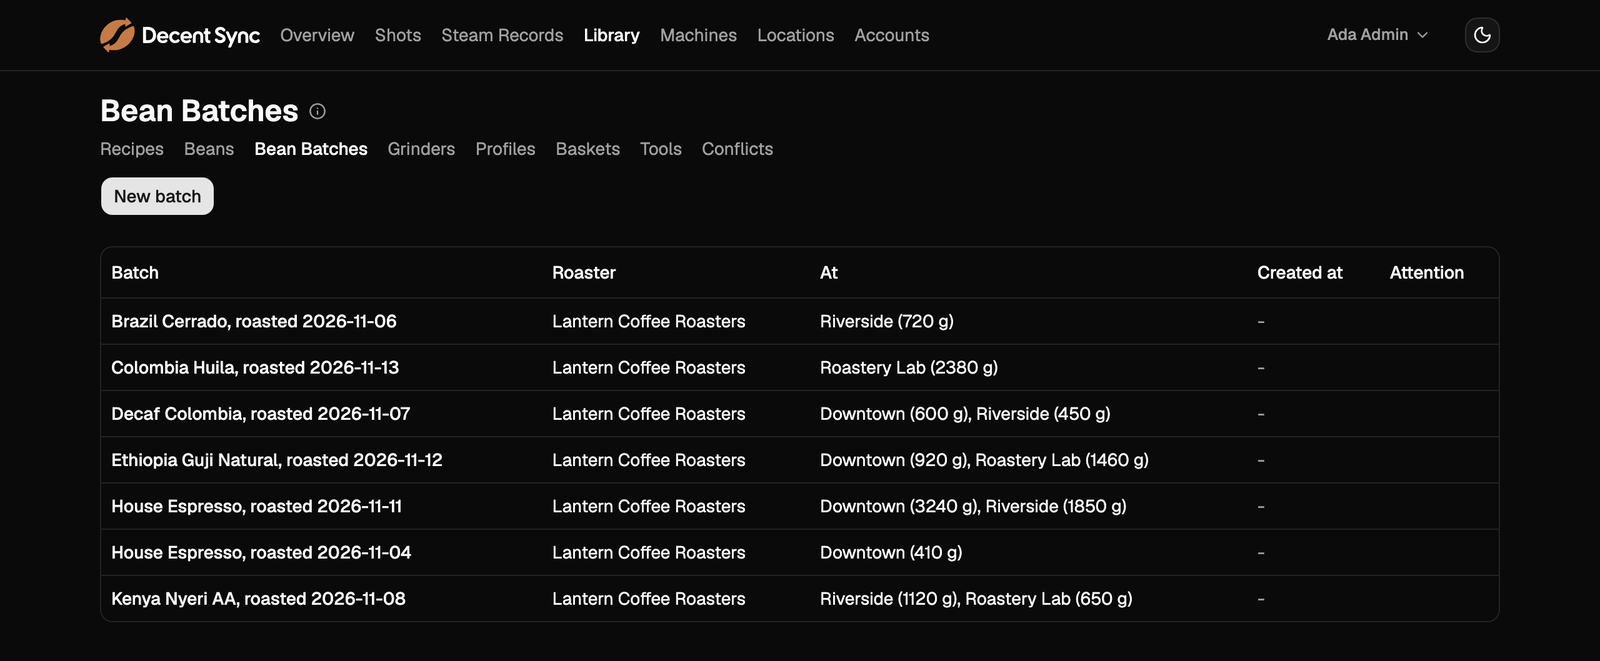
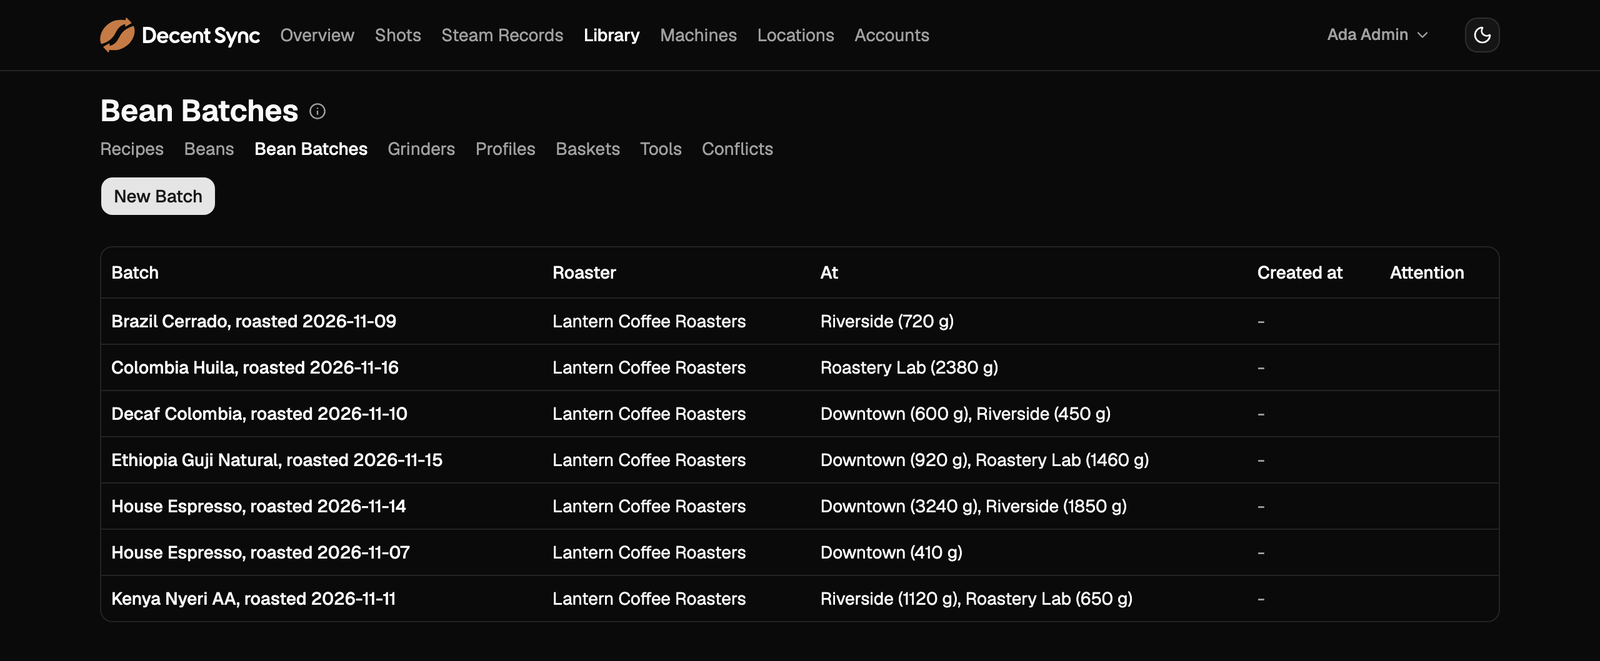
Library: consistent New buttons, New Recipe on the Recipes tab, pointer on buttons (#596)
* Library: New Profile under the tabs, New Recipe on the Recipes tab, "New Batch"

New Profile sat beside the page title; it now sits under the Library's
tabs, as New Bean, New Batch, New Grinder, New Basket and New Tool do.
The Recipes tab gets a New Recipe button there too, which asks for the
Location first (or takes Staff's only one) and then opens the form a
Location's page creates one with. "New batch" is now "New Batch".

* Buttons show a pointer again

Tailwind v4 dropped v3's pointer cursor on buttons, so no button in the
management interface showed one, most noticeably New Profile's starting
shapes, which look like cards. Every enabled button, and anything with
the button role, shows the pointer; a disabled one keeps the default.

* New Recipe keeps the only Location chosen when a poll brings another

With one Location to choose, the dialog derived the choice instead of
holding it, so a poll bringing a second Location unmounted the form and
lost what it held. The only Location is now stored as if picked.

* README's Bean Batches image says "New Batch"; Library docs name New Recipe

Regenerates bean-batches-light/dark with `STILLS=bean-batches SKIP_LIVE=1
npm run readme-images`: only the button label and the roast dates, which
follow the run's date, differ. LIBRARY.md says the Recipes tab creates
Recipes, and that the Baskets and Tools lists create theirs too.

---------

diff --git a/web/src/components/recipes.tsx b/web/src/components/recipes.tsx
@@ -659,6 +659,73 @@ function RecipeFormDialog({
   );
 }
 
+/**
+ * New Recipe on the Library's Recipes tab: the Location chosen first, of
+ * those the account may change, or the only one, then the form a Location's
+ * page creates one with.
+ */
+export function NewRecipeDialog({ places }: { places: { location: Location; recipes: Recipe[] }[] | undefined }) {
+  const navigate = useNavigate();
+  const mayChangeAt = useMayChangeAt();
+  const [open, setOpen] = useState(false);
+  const choosable = (places ?? []).filter(({ location }) => mayChangeAt(location.id));
+  const [locationId, setLocationId] = useState("");
+  // The only Location is chosen as if picked, so another one a later poll brings keeps the form and what it holds.
+  if (open && locationId === "" && choosable.length === 1) setLocationId(choosable[0]!.location.id);
+  const chosen = choosable.find(({ location }) => location.id === locationId);
+  const id = useId();
+  return (
+    <Dialog
+      open={open}
+      onOpenChange={(next) => {
+        setOpen(next);
+        if (!next) setLocationId("");
+      }}
+    >
+      <DialogTrigger asChild>
+        <Button>New Recipe</Button>
+      </DialogTrigger>
+      <DialogContent className="max-h-[90vh] overflow-y-auto sm:max-w-3xl">
+        <DialogHeader>
+          <DialogTitle>New Recipe</DialogTitle>
+          <DialogDescription>
+            {chosen ? `A Recipe at ${chosen.location.name}, written to every tablet at ${chosen.location.name}.` : "A Recipe belongs to one Location, and is written to every tablet there."} A
+            Recipe carries no barista or drinker.
+          </DialogDescription>
+        </DialogHeader>
+        <div className="grid gap-2">
+          <Label htmlFor={`${id}-location`}>Location</Label>
+          <Select value={chosen?.location.id ?? ""} onValueChange={setLocationId}>
+            <SelectTrigger id={`${id}-location`} className="w-full">
+              <SelectValue placeholder="Choose its Location" />
+            </SelectTrigger>
+            <SelectContent>
+              {choosable.map(({ location }) => (
+                <SelectItem key={location.id} value={location.id}>
+                  {location.name}
+                </SelectItem>
+              ))}
+            </SelectContent>
+          </Select>
+        </div>
+        {open && chosen && (
+          <RecipeForm
+            key={chosen.location.id}
+            location={chosen.location}
+            recipes={chosen.recipes}
+            label="New Recipe"
+            onSaved={async (recipeId) => {
+              setOpen(false);
+              setLocationId("");
+              void navigate(`${LIBRARY_KINDS.recipe.pages}/${recipeId}`);
+            }}
+          />
+        )}
+      </DialogContent>
+    </Dialog>
+  );
+}
+
 function RecipeForm({
   location,
   recipes,

diff --git a/web/src/pages/RecipesPage.tsx b/web/src/pages/RecipesPage.tsx
@@ -1,8 +1,9 @@
 import { useCallback, useId } from "react";
 import { Link, useSearchParams } from "react-router";
+import { useMayChange } from "@/auth";
 import { LibraryNav } from "@/components/bean-batches";
 import { PageTitleWithInfo } from "@/components/info-tip";
-import { RecipesTable } from "@/components/recipes";
+import { NewRecipeDialog, RecipesTable } from "@/components/recipes";
 import { Alert, AlertDescription } from "@/components/ui/alert";
 import { Checkbox } from "@/components/ui/checkbox";
 import { Label } from "@/components/ui/label";
@@ -13,10 +14,12 @@ import { DETAILS_POLL_MS, usePolled } from "@/lib/use-polled";
  * The Library's Recipes (#547): every Location's, a table for each
  * Location, in Recipe Slot order with those in no slot after, each with its
  * Reference Shot's duration. Archived Recipes show on asking, which the
- * address keeps as `archived`. A Recipe is created on its Location's page.
+ * address keeps as `archived`. New Recipe creates one at a Location chosen,
+ * as its Location's page does.
  */
 export function RecipesPage() {
   const id = useId();
+  const mayChange = useMayChange();
   const [params, setParams] = useSearchParams();
   const archived = params.has("archived");
   const showArchived = (shown: boolean) =>
@@ -41,7 +44,7 @@ export function RecipesPage() {
         <PageTitleWithInfo title="Recipes">
           <p>
             Every Location's Recipes: its Recipe Slots, 1 to 9, shared by its Machines, then the Recipes kept there in no slot. A Recipe belongs to
-            one Location, and is created on that Location's page, or on a tablet there.
+            one Location, and is created here, on that Location's page, or on a tablet there.
           </p>
           <p>
             A Reference Shot is the one Shot chosen to show how a Recipe's Shots should go: its duration opens it, and "No reference" opens the
@@ -49,6 +52,11 @@ export function RecipesPage() {
           </p>
         </PageTitleWithInfo>
         <LibraryNav />
+        {mayChange && (
+          <div className="mt-2">
+            <NewRecipeDialog places={data} />
+          </div>
+        )}
         <div className="mt-2 flex items-center gap-2">
           <Checkbox id={`${id}-archived`} checked={archived} onCheckedChange={(checked) => showArchived(checked === true)} />
           <Label htmlFor={`${id}-archived`}>Show archived{hidden > 0 && <span className="font-normal text-muted-foreground tabular-nums"> ({hidden})</span>}</Label>

diff --git a/e2e/recipe-management.spec.ts b/e2e/recipe-management.spec.ts
@@ -222,6 +222,41 @@ test("with every slot holding a Recipe, a new Recipe's next free slot says so an
   await expect(page.getByRole("option")).toHaveText(["A slot of my choosing"]);
 });
 
+test("New Recipe on the Library's Recipes tab creates one at the Location chosen, in its next free slot, or Staff's only Location without asking", async ({ page, browser }) => {
+  const north = await createLocation(page, "Tab north");
+  const south = await createLocation(page, "Tab south");
+  await createRecipe(page, south, 1, { name: "South 1" });
+
+  // An Admin chooses the Location first; the form then offers that Location's next free slot.
+  await page.goto("/library/recipes");
+  await page.getByRole("button", { name: "New Recipe" }).click();
+  const dialog = page.getByRole("dialog", { name: "New Recipe" });
+  await expect(dialog.getByRole("form", { name: "New Recipe" })).toHaveCount(0);
+  await dialog.getByLabel("Location", { exact: true }).click();
+  await page.getByRole("option", { name: "Tab south" }).click();
+  const form = dialog.getByRole("form", { name: "New Recipe" });
+  await expect(form.getByLabel("Recipe Slot")).toHaveText("The next free slot (2)");
+  await form.getByLabel("Name", { exact: true }).fill("South 2");
+  await form.getByRole("button", { name: "Create" }).click();
+  await expectSlot(page, 2, "Tab south");
+
+  // Staff working at one Location have it chosen for them.
+  const sam = await staffAt(page, browser, "tab-sam@example.com", north);
+  try {
+    const samsPage = await sam.newPage();
+    await samsPage.goto("/library/recipes");
+    await samsPage.getByRole("button", { name: "New Recipe" }).click();
+    const samsDialog = samsPage.getByRole("dialog", { name: "New Recipe" });
+    await expect(samsDialog.getByLabel("Location", { exact: true })).toHaveText("Tab north");
+    const samsForm = samsDialog.getByRole("form", { name: "New Recipe" });
+    await samsForm.getByLabel("Name", { exact: true }).fill("North 1");
+    await samsForm.getByRole("button", { name: "Create" }).click();
+    await expectSlot(samsPage, 1, "Tab north");
+  } finally {
+    await sam.close();
+  }
+});
+
 test("a Recipe is put in slot 7 from its page, swapping with the one there, a new one's next free slot is 6 where 1 to 5 hold a Recipe, and each tablet holds them there", async ({ page }) => {
   const lab = await createLocation(page, "Seven lab");
   const tablet = await tabletAt(page, server, "Seven lab 1", lab, "45591", tabletApi);

diff --git a/e2e/viewers.spec.ts b/e2e/viewers.spec.ts
@@ -114,7 +114,7 @@ test("a Viewer's pages show what Staff's show, and no control that changes anyth
     { path: `/machines/${machineId}?tab=setup`, loaded: (page) => page.getByRole("region", { name: "Location" }).getByRole("definition").first() },
     { path: "/library/beans", loaded: (page) => rows(page.getByRole("table", { name: "Beans" })).first(), staffHave: "button New Bean" },
     { path: `/library/beans/${ids.bean}`, loaded: (page) => page.getByRole("table", { name: "Batches" }), staffHave: "button Edit the coffee" },
-    { path: "/library/bean-batches", loaded: (page) => rows(page.getByRole("table", { name: "Bean Batches" })).first(), staffHave: "button New batch" },
+    { path: "/library/bean-batches", loaded: (page) => rows(page.getByRole("table", { name: "Bean Batches" })).first(), staffHave: "button New Batch" },
     { path: `/library/bean-batches/${ids.batch}`, loaded: uptownRow, staffHave: "button Finish it at Uptown" },
     { path: "/library/grinders", loaded: (page) => rows(page.getByRole("table", { name: "Grinders" })).first(), staffHave: "button New Grinder" },
     { path: `/library/grinders/${ids.grinder}`, loaded: (page) => page.getByRole("heading", { name: "History" }), staffHave: "button Edit the Grinder" },
@@ -147,7 +147,12 @@ test("a Viewer's pages show what Staff's show, and no control that changes anyth
       filters: [/^button Hide History$/, /^button (Show|Hide) the (\d+ )?fields? not set$/],
     },
     // Every Location's Recipes (#547), with Archived ones on asking, which changes nothing.
-    { path: "/library/recipes", loaded: (page) => rows(page.getByRole("table", { name: "Recipes at Uptown" })).first(), filters: [/^checkbox Show archived/] },
+    {
+      path: "/library/recipes",
+      loaded: (page) => rows(page.getByRole("table", { name: "Recipes at Uptown" })).first(),
+      staffHave: "button New Recipe",
+      filters: [/^checkbox Show archived/],
+    },
   ];
 
   await asNew(page, browser, "staff", location.id, async (samsPage) => {

diff --git a/web/src/pages/ProfilesPage.tsx b/web/src/pages/ProfilesPage.tsx
@@ -25,22 +25,22 @@ export function ProfilesPage() {
   return (
     <section className="grid gap-6">
       <div className="grid gap-1">
-        <div className="flex flex-wrap items-start justify-between gap-3">
-          <PageTitleWithInfo title="Profiles">
-            <p>
-              The programs the machines follow, each shown or hidden at each Location. A Profile created on a tablet joins the
-              Library shown at that tablet's Location only, and is written to every tablet there. Hiding, deleting or changing
-              its steps on a tablet hides it at that tablet's Location only; new steps make a new Profile. A Profile is written
-              here as a Draft, which is on no tablet until it is published.
-            </p>
-          </PageTitleWithInfo>
-          {mayChange && (
+        <PageTitleWithInfo title="Profiles">
+          <p>
+            The programs the machines follow, each shown or hidden at each Location. A Profile created on a tablet joins the
+            Library shown at that tablet's Location only, and is written to every tablet there. Hiding, deleting or changing
+            its steps on a tablet hides it at that tablet's Location only; new steps make a new Profile. A Profile is written
+            here as a Draft, which is on no tablet until it is published.
+          </p>
+        </PageTitleWithInfo>
+        <LibraryNav />
+        {mayChange && (
+          <div className="mt-2">
             <Button asChild>
               <Link to="/library/profiles/new">New Profile</Link>
             </Button>
-          )}
-        </div>
-        <LibraryNav />
+          </div>
+        )}
       </div>
 
       {mayChange && <DraftsCard />}

diff --git a/e2e/profile-editor.spec.ts b/e2e/profile-editor.spec.ts
@@ -225,6 +225,10 @@ test("New Profile starts a Draft from a starting shape, a duplicate of a bundled
   await page.getByRole("link", { name: "New Profile" }).click();
   await expect(page.getByRole("heading", { level: 1 })).toHaveText("New Profile");
   await expect(page.getByRole("button", { name: /^Start from / })).toHaveText([/^Classic 9 bar/, /^Declining lever/, /^Steady flow/, /^Blooming/, /^Long and gentle/, /^Blank/]);
+  // Each says it can be pressed, as every enabled button does; Duplicate, until a Profile is chosen, does not.
+  await expect(page.getByRole("button", { name: "Start from Blooming" })).toHaveCSS("cursor", "pointer");
+  await expect(page.getByRole("button", { name: "Choose a file" })).toHaveCSS("cursor", "pointer");
+  await expect(page.getByRole("button", { name: "Duplicate", exact: true })).not.toHaveCSS("cursor", "pointer");
   await page.getByRole("button", { name: "Start from Blooming" }).click();
   await expect(page.getByRole("heading", { level: 1 })).toHaveText("Blooming Draft");
   await expect(page.getByText("Will publish as a new Profile, from Blooming")).toBeVisible();

diff --git a/web/src/components/library-forms.tsx b/web/src/components/library-forms.tsx
@@ -617,14 +617,14 @@ export function NewBatchDialog({ bean, beans }: { bean?: { id: string; name: str
   return (
     <Dialog open={open} onOpenChange={setOpen}>
       <DialogTrigger asChild>
-        <Button variant={bean ? "outline" : "default"}>New batch</Button>
+        <Button variant={bean ? "outline" : "default"}>New Batch</Button>
       </DialogTrigger>
       <DialogContent className="max-h-[90vh] overflow-y-auto sm:max-w-2xl">
         <DialogHeader>
-          <DialogTitle>New batch{bean ? ` of ${bean.name ?? "Unnamed Bean"}` : ""}</DialogTitle>
+          <DialogTitle>New Batch{bean ? ` of ${bean.name ?? "Unnamed Bean"}` : ""}</DialogTitle>
           <DialogDescription>A roast of a Bean, written with its Bean to the tablets at each Location it is added at.</DialogDescription>
         </DialogHeader>
-        <form aria-label="New batch" className="grid gap-4" onSubmit={create}>
+        <form aria-label="New Batch" className="grid gap-4" onSubmit={create}>
           {error && <FormError error={error} />}
           {!bean && (
             <div className="grid gap-2">

diff --git a/e2e/library-management.spec.ts b/e2e/library-management.spec.ts
@@ -27,8 +27,8 @@ test("a Bean and a batch of it at a Location are created here, and the Bean edit
   await expect(field(page.getByLabel("Coffee", { exact: true }), "Country")).toHaveText("Panama");
   await expect(field(page.getByLabel("In the Library", { exact: true }), "Offered at")).toHaveText("Nowhere");
 
-  await page.getByRole("button", { name: "New batch" }).click();
-  const newBatch = page.getByRole("dialog", { name: "New batch of Uptown Gesha" });
+  await page.getByRole("button", { name: "New Batch" }).click();
+  const newBatch = page.getByRole("dialog", { name: "New Batch of Uptown Gesha" });
   await newBatch.getByLabel("Roast date", { exact: true }).fill("2026-10-03");
   await newBatch.getByLabel("Weight (g)", { exact: true }).fill("1000");
   await newBatch.getByLabel("Uptown", { exact: true }).check();

diff --git a/web/src/index.css b/web/src/index.css
@@ -135,4 +135,9 @@
   html {
     @apply font-sans;
     }
+  /* Tailwind v4 leaves buttons the default cursor; a pointer says they can be pressed, as v3's did. */
+  button:not(:disabled),
+  [role="button"]:not(:disabled) {
+    cursor: pointer;
+  }
 }

diff --git a/docs/LIBRARY.md b/docs/LIBRARY.md
@@ -3193,7 +3193,10 @@ Profile, dose and yield, Grinder and setting, its Reference Shot's
 duration, linked to that Shot, or "No reference", linked to its rated
 Shots, and what needs attention; Archived Recipes show once Show archived
 is ticked, which the address keeps as `archived`. It reads each Location's
-list, and no route was added for it.
+list, and no route was added for it. Its New Recipe (`NewRecipeDialog` in
+`web/src/components/recipes.tsx`) asks for the Location first, of those the
+account may change, choosing it when there is only one, then opens the
+Recipe form a Location's Recipes card creates one with.
 Each item's page notes its open Conflicts, if it has any, and shows how
 many Shots it has, with a link that opens them in the Shots list
 (`web/src/components/item-shots.tsx`), and its history, and the
@@ -3206,8 +3209,8 @@ Machine's page says whether it shares the Library at its Location or is capture-
 switch an Admin turns its sharing off and on with, once they confirm, and
 its sharing status, loaded as often as its own status: the changes waiting
 for its tablet, the last it applied, and those it refused, with Decaid's
-answer (`web/src/components/machine-sharing.tsx`). The Beans, Bean Batches and
-Grinders lists create them, and each item's page edits it, Archives or
+answer (`web/src/components/machine-sharing.tsx`). The Beans, Bean Batches,
+Grinders, Baskets and Tools lists create them, and each item's page edits it, Archives or
 restores it, and, for an Admin, deletes it; a batch's page adds it at each
 Location and finishes it there, and sets its remaining weight there
 (`web/src/components/library-forms.tsx`). A Bean refused as one the Library
